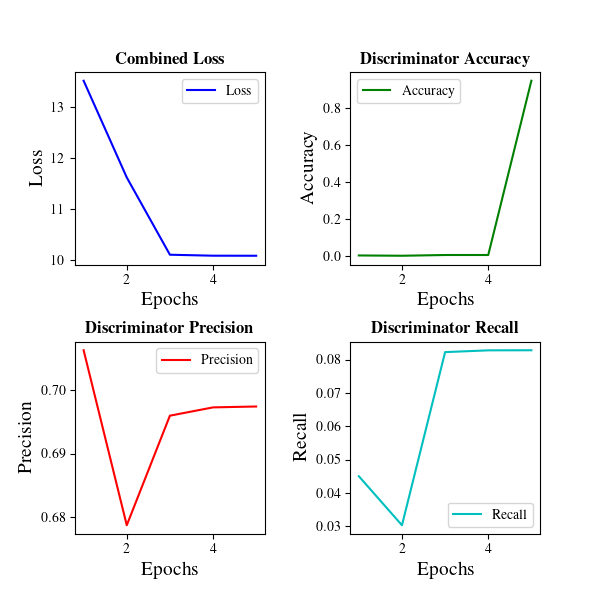
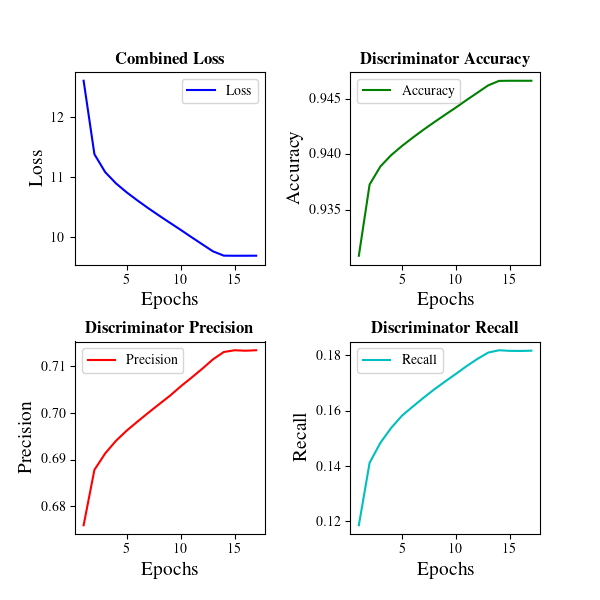
reducing batch size

diff --git a/Code/src/models.py b/Code/src/models.py
@@ -87,7 +87,7 @@ large_finetune_config = {
 # ----------------------
 reconfigure_small_settings = {
     "boolq": {},  # the bool_q dataset with the small model needs a lower learning rate.
-    "bioasq": {"lr": 1e-4},  # "lr": 1e-4
+    "bioasq": {"lr": 1e-4, "batch_size": 32},  # "lr": 1e-4
     "squad": {"lr": 1e-4},
 }  # todo we can define here how the settings transition for different datasets if we want to.
 

diff --git a/Code/src/visualise_pretraining.py b/Code/src/visualise_pretraining.py
@@ -190,7 +190,7 @@ def create_separate_plots(statistics, checkpoint_name):
 
 
 if __name__ == "__main__":
-    chckpt_name = "base_5_35788"  # e.g. small_10_50
+    chckpt_name = "small_17_12583"  # e.g. small_10_50
 
     if len(chckpt_name) == 0:
         raise ValueError("Checkpoint name must be the name of a valid checkpoint e.g. small_10_50")
